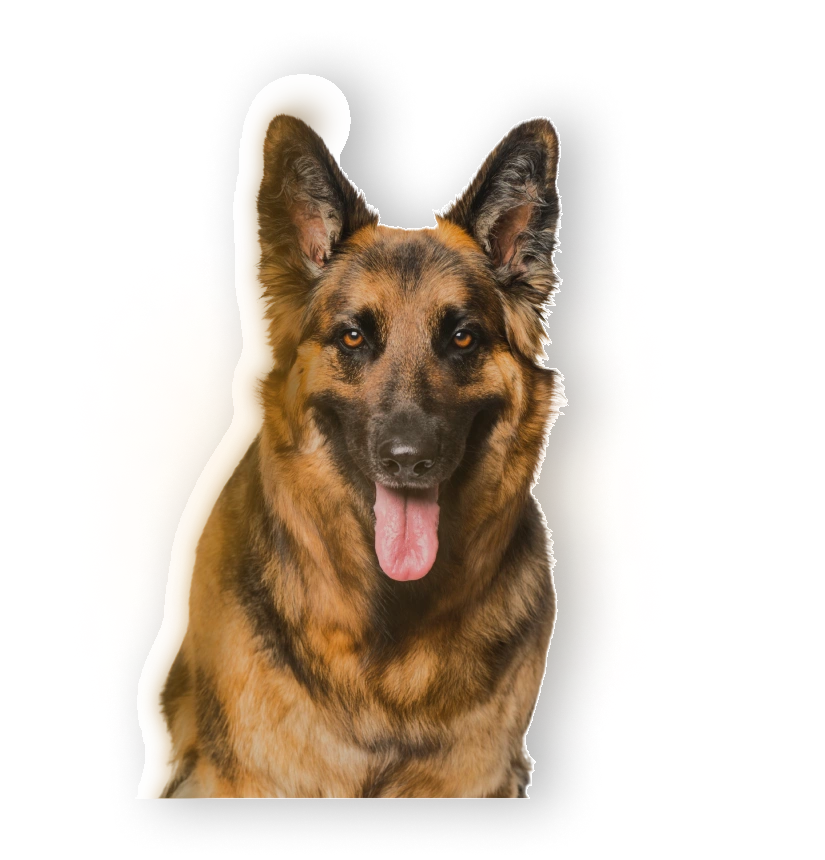
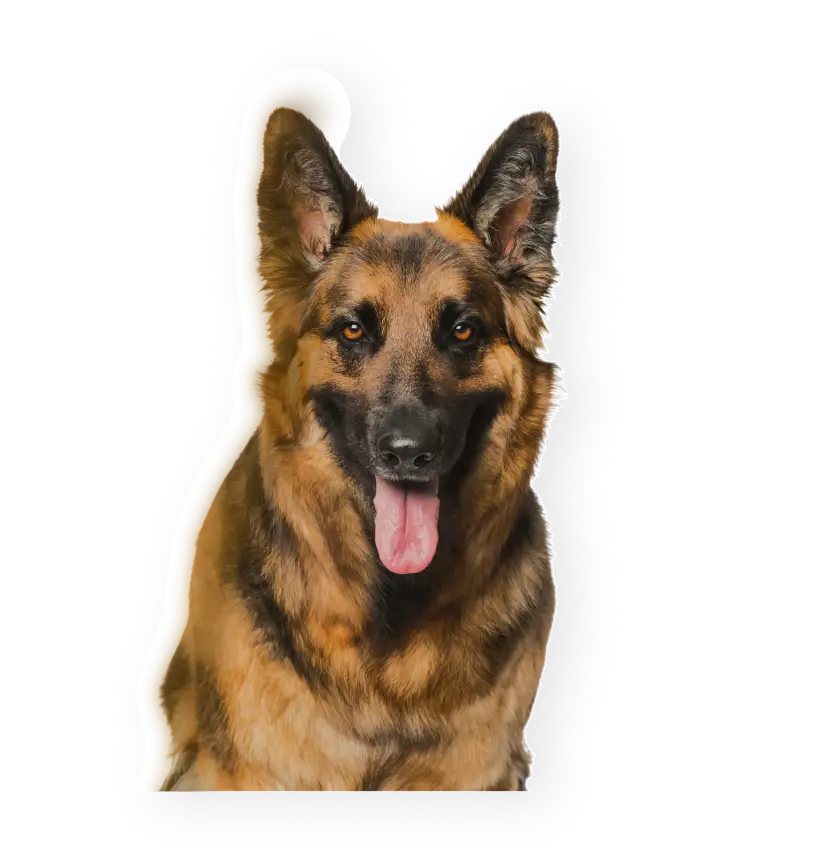
update

Changed region(s): [[0.1818, 0.1209, 0.7273, 0.9372], [0.3939, 0.0907, 0.4242, 0.1209]]

diff --git a/css/home.css b/css/home.css
@@ -276,20 +276,20 @@
     header#home .image img.desktop {
       z-index: 2;
       display: inherit;
-      width: 50%;
+      width: 60%;
       position: absolute;
-      top: 5%;
-      right: 3%;
+      bottom: 0;
+      right: -2%;
       animation: slow-float-with-scale 15s infinite ease-in-out;
     }
 
     header#home .image img.cachorro {
       top: initial;
       left: initial;
-      width: 37%;
+      width: 47%;
       z-index: 2;
       bottom: -5%;
-      right: 22%;
+      right: 16%;
 
       animation: cachorro 15s infinite ease-in-out;
     }
@@ -440,8 +440,22 @@
 
 @media (min-width: 1300px) {
   header#home .image img.desktop {
+    width: 50%;
+    bottom: 0;
+    right: 3%;
+  }
+
+  header#home .image img.cachorro {
+    width: 37%;
+    bottom: -5%;
+    right: 22%;
+  }
+}
+
+@media (min-width: 1500px) {
+  header#home .image img.desktop {
     width: 40%;
-    top: 5%;
+    bottom: 0;
     right: 8%;
   }
 
@@ -459,7 +473,7 @@
 
   header#home .image img.desktop {
     width: 40%;
-    top: 5%;
+    bottom: 0;
     right: 8%;
   }
 
